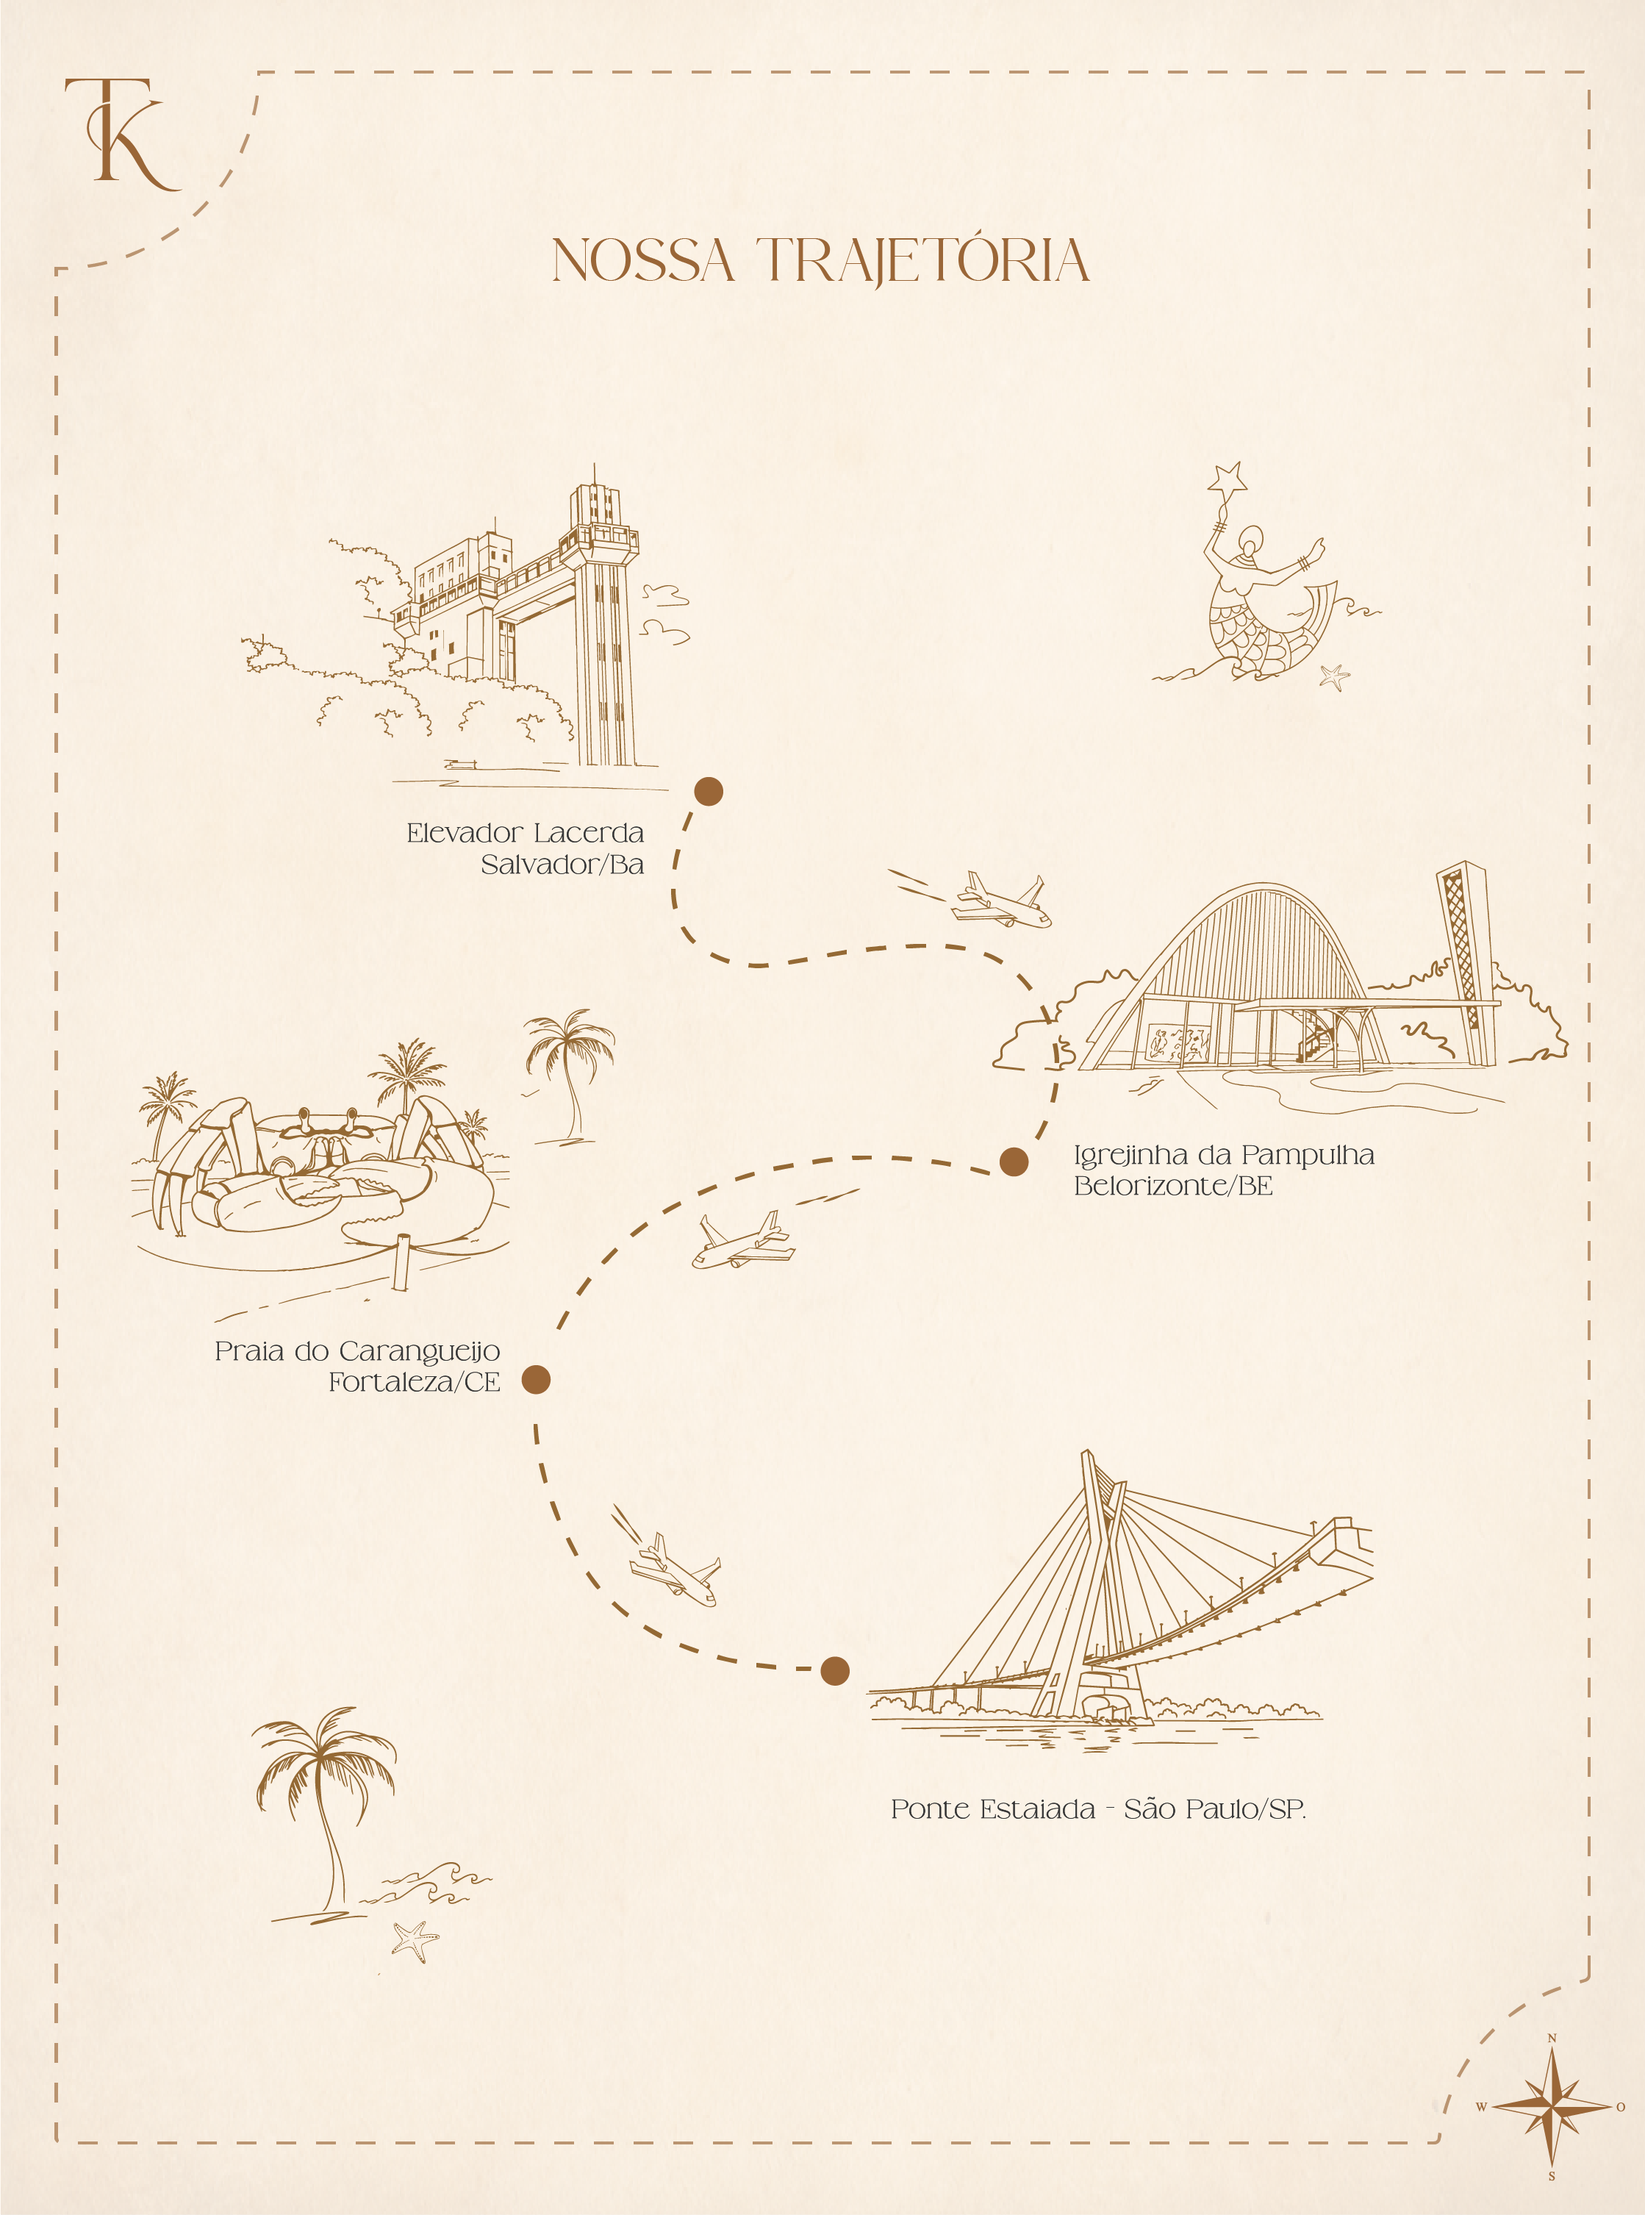
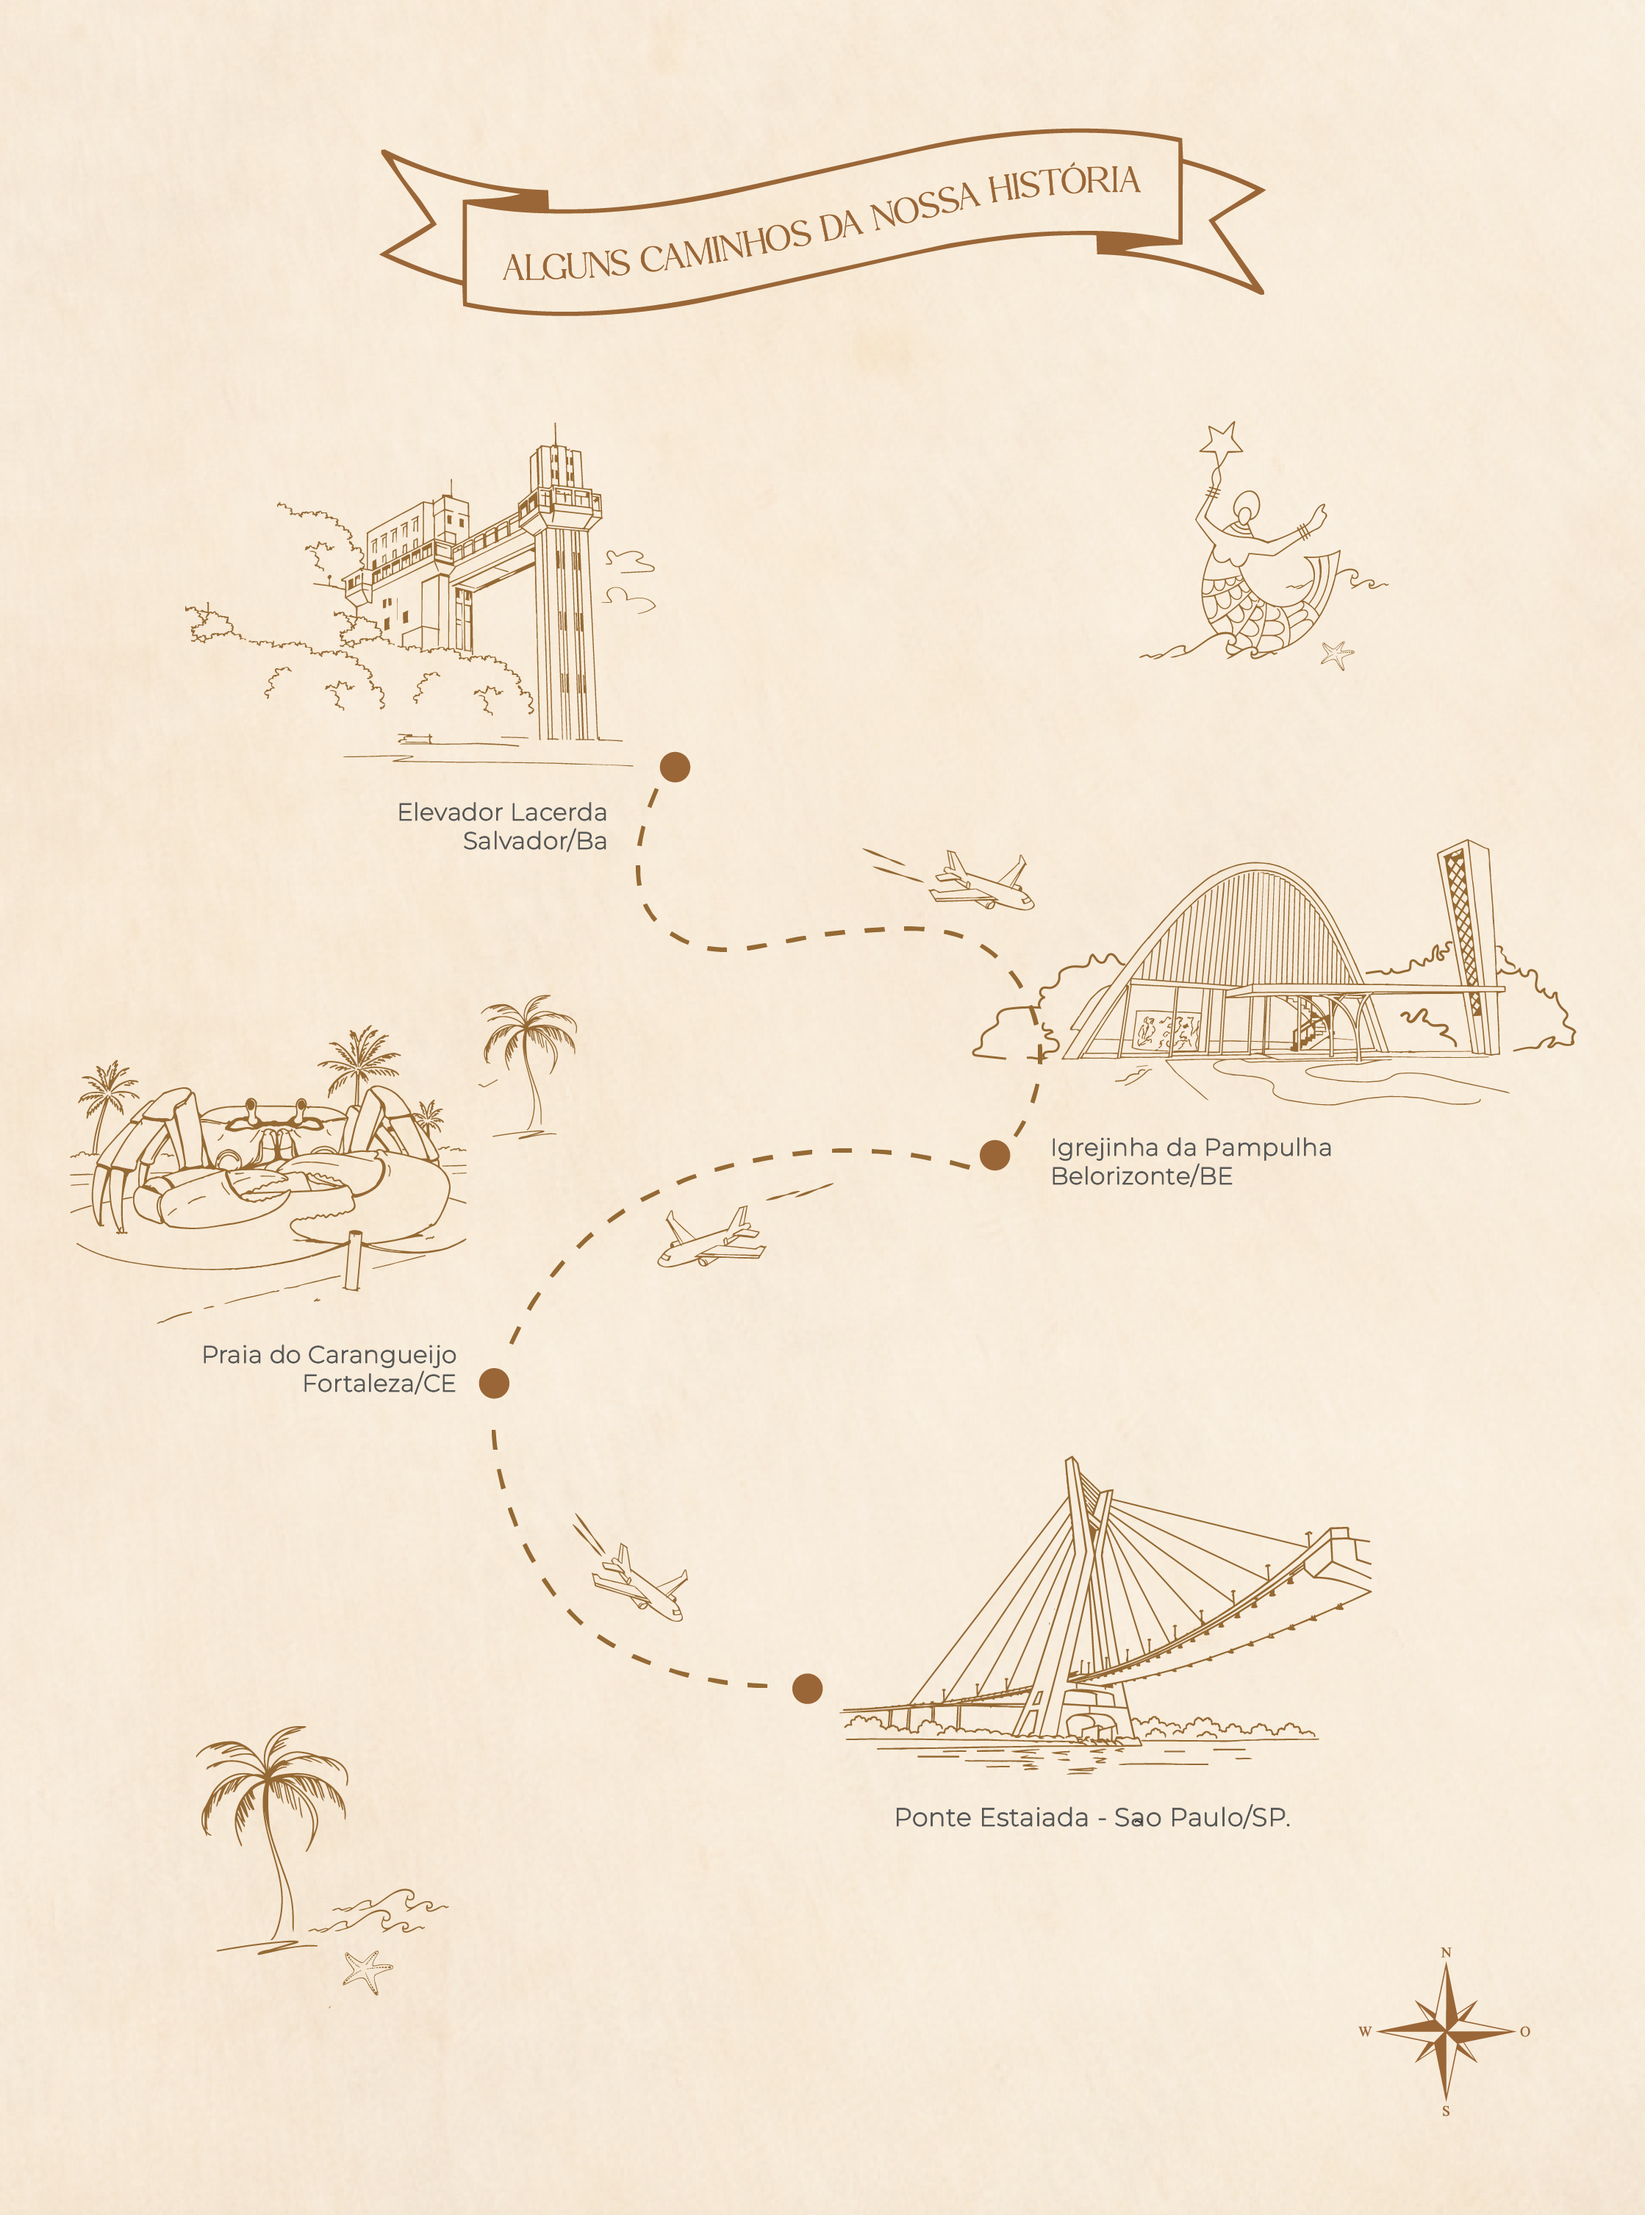
Ajustes de secao RSVP, trajetoria, tipografia e responsividade mobile
- Move ponte-bg.png para assets/icones e atualiza referencia
- Atualiza imagens de trajetoria (linha-do-tempo e bg-trajetoria)
- Adiciona indicador "Clique para expandir" na secao Nossa Trajetoria
- Fundo da secao Confirmar Presenca em dourado com textos em branco
- Diversos ajustes de tamanho de fonte e espacamento para mobile
  (menu, eyebrow, textos de secao, endereco do local, monograma)
- Remove titulos redundantes (Onde se hospedar, Nossa Trajetoria)
- Atualiza textos de RSVP e aviso de pre-carnaval

diff --git a/index.html b/index.html
@@ -149,7 +149,7 @@
     display: inline-block;
     font-family: var(--font-text);
     font-size: 15px;
-    font-weight: 500;
+    font-weight: 600;
     letter-spacing: 2.5px;
     text-transform: uppercase;
     color: var(--color-gold-dark);
@@ -182,6 +182,9 @@
     font-size: clamp(24px, 4.4vw, 40px);
     white-space: nowrap;
   }
+  @media (max-width: 560px) {
+    #dicas-tab-title { font-size: 26px; white-space: normal; }
+  }
 
   .h3 {
     font-family: var(--font-text);
@@ -211,6 +214,28 @@
     background-size: cover;
     background-position: center;
     background-repeat: no-repeat;
+    padding-top: var(--space-4);
+  }
+  .tl-expand-hint {
+    display: flex;
+    align-items: center;
+    justify-content: center;
+    gap: 8px;
+    text-align: center;
+    font-family: var(--font-content);
+    font-size: 14px;
+    font-weight: 600;
+    letter-spacing: 0.6px;
+    color: var(--color-gold-dark);
+    margin: 0 0 var(--space-3);
+    animation: tl-hint-bounce 1.8s ease-in-out infinite;
+  }
+  @keyframes tl-hint-bounce {
+    0%, 100% { transform: translateY(0); }
+    50% { transform: translateY(-6px); }
+  }
+  @media (prefers-reduced-motion: reduce) {
+    .tl-expand-hint { animation: none; }
   }
 
   #hospedagem { position: relative; overflow: hidden; }
@@ -253,9 +278,11 @@
   .tl-full-img {
     display: block;
     width: 100%;
-    max-width: 820px;
     height: auto;
-    margin: var(--space-5) auto 0;
+    margin: 0 auto;
+  }
+  @media (min-width: 768px) {
+    .tl-full-img { max-width: 960px; margin: var(--space-5) auto 0; }
   }
 
   /* ============================================================
@@ -431,11 +458,11 @@
     margin: var(--space-4) 0 0; padding: 0;
     display: flex;
     flex-direction: column;
-    gap: var(--space-3);
+    gap: var(--space-2);
   }
   .nav-mobile a {
     font-family: var(--font-content);
-    font-size: 10px;
+    font-size: 13px;
     color: var(--color-ink);
     transition: color 0.15s ease;
   }
@@ -508,11 +535,12 @@
   }
 
   .hero-date {
-    font-size: 13px;
+    font-size: 12px;
     font-weight: 600;
     letter-spacing: 3px;
     text-transform: uppercase;
     color: var(--color-gold-dark);
+    margin-top: -8px;
     margin-bottom: var(--space-2);
   }
 
@@ -527,6 +555,9 @@
     max-width: 560px;
     margin: var(--space-5) auto 0;
     font-size: clamp(15px, 2.4vw, 18px);
+  }
+  @media (max-width: 560px) {
+    .hero-welcome { font-size: 14px; line-height: 1.6; }
   }
 
   /* ============================================================
@@ -690,7 +721,7 @@
     margin-bottom: 4px;
   }
   .venue-showcase-details span { color: var(--color-gold-dark); font-weight: 500; }
-  .venue-showcase-name { margin-top: -8px; }
+  .venue-showcase-name { margin-top: var(--space-2); }
   .venue-showcase-img--below {
     margin: var(--space-4) auto 0;
   }
@@ -702,9 +733,12 @@
     margin-bottom: 4px;
   }
   .venue-showcase-address {
-    font-size: 17px;
+    font-size: 16px;
     font-weight: 400;
     color: var(--color-stone);
+  }
+  @media (max-width: 560px) {
+    .venue-showcase-address { font-size: 15px; }
   }
 
   .info-cards {
@@ -1102,6 +1136,9 @@
     cursor: pointer;
     transition: background var(--t-med), color var(--t-med), border-color var(--t-med);
   }
+  @media (max-width: 560px) {
+    .tips-tab-btn { min-height: 44px; padding: 12px 18px; }
+  }
   .tips-tab-btn:hover { border-color: var(--color-gold); color: var(--color-gold-dark); }
   .tips-tab-btn.is-active {
     background: var(--color-gold);
@@ -1235,7 +1272,7 @@
     box-shadow: var(--shadow-soft);
   }
   .info-note-icon {
-    width: 77px;
+    width: 110px;
     height: auto;
     flex-shrink: 0;
   }
@@ -1249,9 +1286,9 @@
     margin: 0;
   }
   @media (max-width: 560px) {
-    .info-note { gap: var(--space-2); padding: var(--space-3); }
-    .info-note-icon { width: 53px; }
-    .info-note-text { font-size: 15px; }
+    .info-note { flex-direction: column; gap: var(--space-2); padding: var(--space-3); }
+    .info-note-icon { width: 80px; }
+    .info-note-text { font-size: 15px; text-align: center; }
   }
 
   .gift-bank {
@@ -1398,10 +1435,13 @@
 
     /* Capa: alinha ao topo (evita centralização vertical em telas altas) */
     .hero { min-height: auto; align-items: flex-start; padding-top: calc(var(--header-h) + var(--space-2)); padding-bottom: var(--space-6); }
-    .hero-brasao { width: clamp(140px, 40vw, 180px); }
+    .hero-brasao { width: clamp(110px, 32vw, 150px); }
 
     /* Data da capa em uma única linha */
     .hero-date { font-size: clamp(11px, 3.5vw, 15px); letter-spacing: 1.5px; white-space: nowrap; }
+
+    /* Data do local em uma única linha */
+    .venue-showcase-date { font-size: clamp(13px, 4vw, 17px); letter-spacing: 1.5px; white-space: nowrap; }
 
     /* Contagem: 4 colunas na horizontal, números menores para caber */
     .countdown-num { font-size: clamp(24px, 8.5vw, 40px); }
@@ -1456,7 +1496,6 @@
       <img src="assets/geral/monograma.png" alt="" aria-hidden="true" class="hero-brasao" />
       <h1><span class="hero-assinatura-text">Thais e Kenneth</span></h1>
       <p class="hero-date">Casa Baluarte - Salvador/BA</p>
-      <p class="hero-welcome lede">Criamos este espaço para compartilhar com vocês os detalhes do nosso grande dia. Preparamos tudo com carinho para receber cada um de vocês.</p>
     </div>
   </section>
 
@@ -1466,6 +1505,7 @@
       <div class="section-head reveal">
         <img src="assets/geral/elementos/elemento-06.png" alt="" style="width:90px; height:auto; margin:0 auto var(--space-2);" />
         <span class="eyebrow">Contagem regressiva</span>
+        <p class="hero-welcome lede">Criamos este espaço para compartilhar com vocês os detalhes do nosso grande dia. Preparamos tudo com carinho para receber cada um de vocês.</p>
       </div>
       <div class="countdown-grid reveal">
         <div class="countdown-cell">
@@ -1490,13 +1530,11 @@
 
   <!-- ============ LINHA DO TEMPO ============ -->
   <section class="section section--alt" id="linha-do-tempo">
-    <div class="container">
-      <div class="section-head reveal">
-        <span class="eyebrow">Nossa Trajetória</span>
-      </div>
-
-      <img src="assets/geral/linha-do-tempo.png" alt="Nossa Trajetória" class="tl-full-img reveal" id="tl-full-img" style="cursor: zoom-in;" />
-    </div>
+    <p class="tl-expand-hint reveal">
+      <svg viewBox="0 0 24 24" fill="none" stroke="currentColor" stroke-width="1.6" width="18" height="18" aria-hidden="true"><circle cx="11" cy="11" r="7"/><line x1="16.5" y1="16.5" x2="21" y2="21"/><line x1="8.5" y1="11" x2="13.5" y2="11"/><line x1="11" y1="8.5" x2="11" y2="13.5"/></svg>
+      Clique para expandir
+    </p>
+    <img src="assets/geral/linha-do-tempo.png" alt="Nossa Trajetória" class="tl-full-img reveal" id="tl-full-img" style="cursor: zoom-in;" />
   </section>
 
   <!-- ============ LOCAL DA CERIMÔNIA ============ -->
@@ -1527,12 +1565,11 @@
     <div class="container">
       <div class="section-head reveal">
         <span class="eyebrow">Hospedagem</span>
-        <h2 class="h2">Onde se hospedar</h2>
       </div>
       <div class="content-narrow reveal">
         <div class="info-note">
           <img src="assets/icones/icone-mascara.png" alt="" class="info-note-icon" />
-          <p class="info-note-text">Por se tratar de pré-carnaval em Salvador, aconselhamos fazer reserva de hotel e passagens aéreas com antecedência. O trânsito pode estar modificado por conta das festas de pré-carnaval.</p>
+          <p class="info-note-text">Por ser pré-carnaval, recomendamos reservar com antecedência e ficar atento às alterações no trânsito.</p>
         </div>
       </div>
       <!-- EDITAR: substituir foto, nome, descrição, telefone, whatsapp e link de cada hotel -->
@@ -1653,20 +1690,17 @@
   </section>
 
   <!-- ============ CONFIRMAR PRESENÇA ============ -->
-  <section class="section section--alt" id="confirmar-presenca" style="background-color: var(--color-off-white); position: relative; overflow: hidden;">
-    <div style="position:absolute; inset:0; background-image: url('assets/geral/ponte-bg.png'); background-size: cover; background-position: center; background-repeat: no-repeat; opacity: 0.08; pointer-events: none;"></div>
+  <section class="section section--alt" id="confirmar-presenca" style="background-color: var(--color-gold); position: relative; overflow: hidden;">
     <div style="position:absolute; inset:0; background-image: url('assets/geral/estampa.png'); background-size: 420px 420px; background-repeat: repeat; opacity: 0.07; pointer-events: none;"></div>
-    <div class="container" style="position: relative; z-index: 1;">
+    <div class="container" style="position: relative; z-index: 1; color: var(--color-white);">
       <div class="section-head reveal">
-        <img src="assets/icones/rsvp.png" alt="" class="rsvp-icon" style="width:90px; height:auto; margin:0 auto var(--space-2);" />
-        <span class="eyebrow">RSVP</span>
-        <h2 class="h2">Confirmar Presença</h2>
-        <p class="lede">Sua presença é muito importante para nós. Por favor, confirme até a data indicada para que possamos organizar tudo com carinho.</p>
+        <img src="assets/icones/rsvp.png" alt="" class="rsvp-icon" style="width:90px; height:auto; margin:0 auto var(--space-2); filter: brightness(0) invert(1);" />
+        <span class="eyebrow" style="color: var(--color-white);">RSVP</span>
+        <h2 class="h2" style="color: var(--color-white);">Confirmar Presença</h2>
+        <p class="hero-welcome lede" style="color: var(--color-white); max-width: 560px; margin-left: auto; margin-right: auto;">Sua presença é muito importante. Por favor, confirma a sua presença para que possamos organizar tudo com carinho.</p>
       </div>
       <div style="text-align:center;">
-        <a href="https://felicitous.com.br/thaisekenneth" target="_blank" rel="noopener" class="rsvp-btn-link" style="display:inline-block;">
-          <img src="assets/geral/botão01.png" alt="Confirmar Presença" class="rsvp-btn-img" style="width:306px; max-width:80vw; height:auto;" />
-        </a>
+        <a class="btn btn-primary" href="https://felicitous.com.br/thaisekenneth" target="_blank" rel="noopener" style="background-color: var(--color-white); color: var(--color-gold); border-color: var(--color-white);">Confirmar Presença</a>
       </div>
     </div>
   </section>
@@ -1675,7 +1709,6 @@
   <section class="section section--alt" id="dicas" style="background-color: var(--color-white);">
     <div class="container">
       <div class="section-head reveal">
-        <img src="assets/geral/elementos/elemento-06.png" alt="" style="width:90px; height:auto; margin:0 auto var(--space-2);" />
         <span class="eyebrow">Dicas</span>
         <h2 class="h2" id="dicas-tab-title">Museus para conhecer</h2>
       </div>
